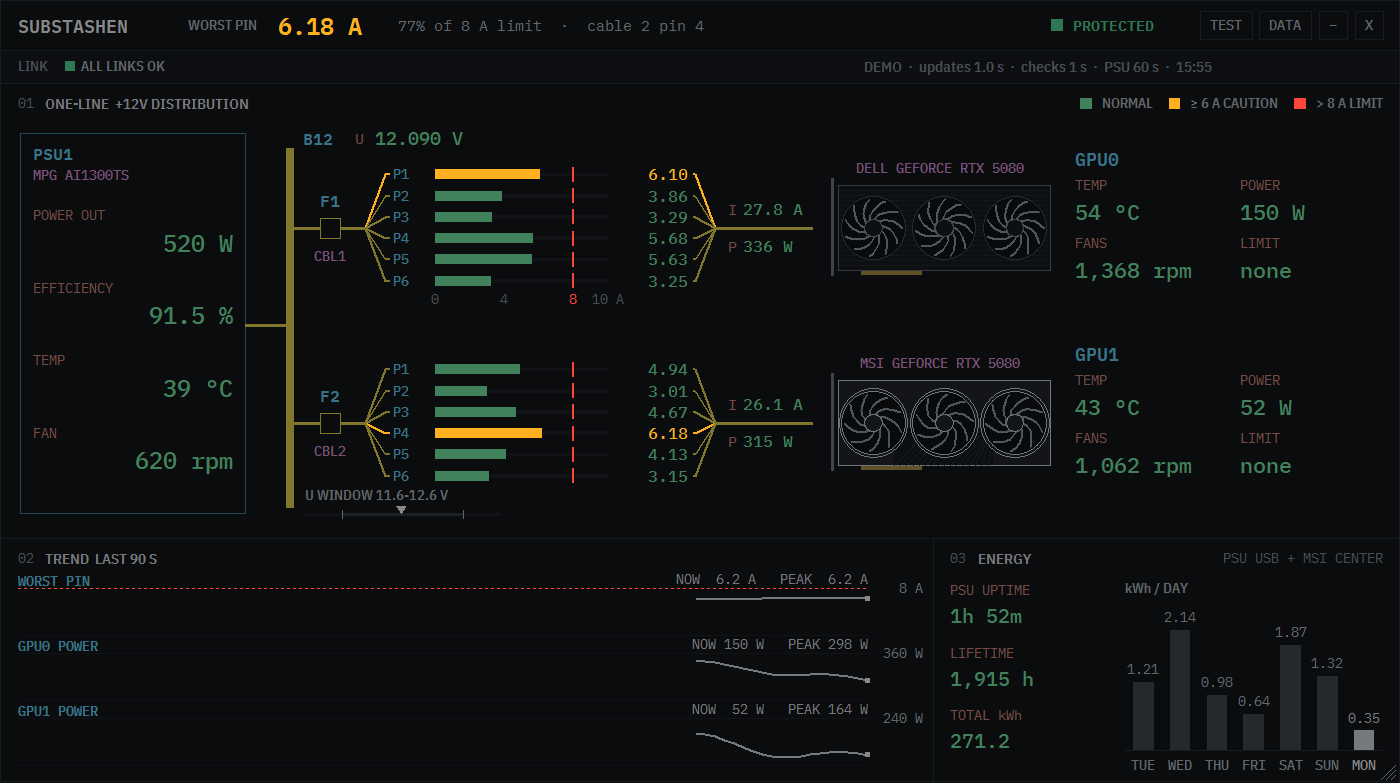
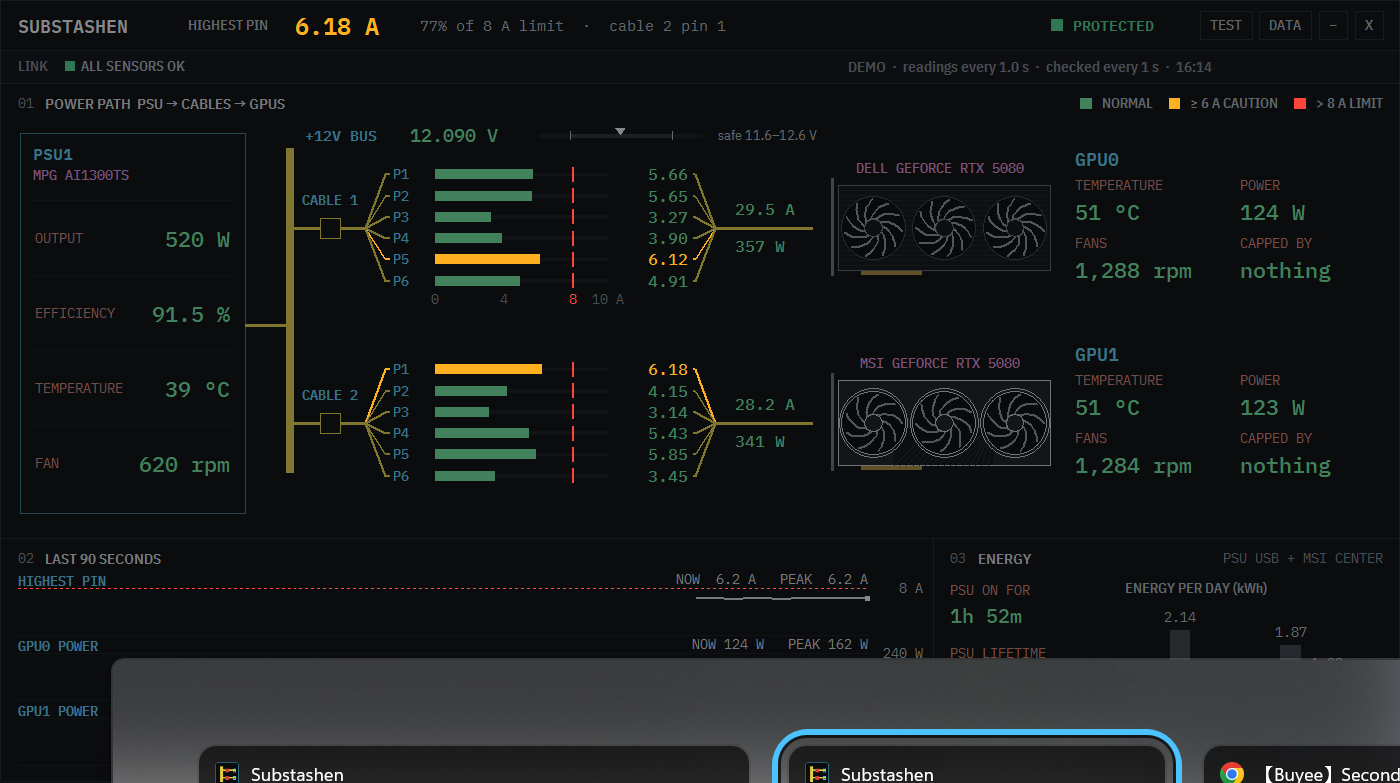
Plain-language labels, roomier layout, refreshed screenshots
- CAPPED BY voltage/power/heat instead of LIMIT VOLT/PWR/TMP
- HIGHEST PIN, ALL SENSORS OK, POWER PATH, plain energy labels
- +12V bus safe range moved beside the reading; one-row PSU values
- CABLE 1/2 naming and cleaner cable totals
- README wording and screenshots updated to match

diff --git a/README.md b/README.md
@@ -46,12 +46,12 @@ The warning rules only warn. Only the 8 A rule and the PSU alarm close programs.
 
 ## The panel
 
-- **WORST PIN**: the highest of the 12 currents and how close it is to the limit, at a glance.
-- **One-line diagram**: PSU → +12 V bus → two cable feeders → six pin conductors each → the card they feed.
+- **HIGHEST PIN**: the highest of the 12 currents and how close it is to the 8 A limit, at a glance.
+- **Power path diagram**: PSU → +12 V bus (with its safe 11.6–12.6 V range) → cable 1 and cable 2 → six pins each → the card they feed.
   Each pin has its live value and a bar against the 8 A limit. The cable-to-card match is worked out
   automatically from watts.
-- **Line drawings of each card** with fans that turn at their real speed.
-- **LINK row**: shows *ALL LINKS OK*, or exactly which data source is missing and a button to fix it.
+- **Line drawings of each card** with fans that turn at their real speed, plus temperature, power, fans and what is capping its clock (*CAPPED BY: voltage / power / heat*, which is normal).
+- **LINK row**: shows *ALL SENSORS OK*, or exactly which data source is missing and a button to fix it.
 - **Trends**: worst pin and each GPU's power over 90 s, auto-scaled.
 - **Energy**: PSU uptime and lifetime hours read from the PSU over USB, plus kWh from MSI Center's record.
 - **Hover anything** for a plain-English explanation.
